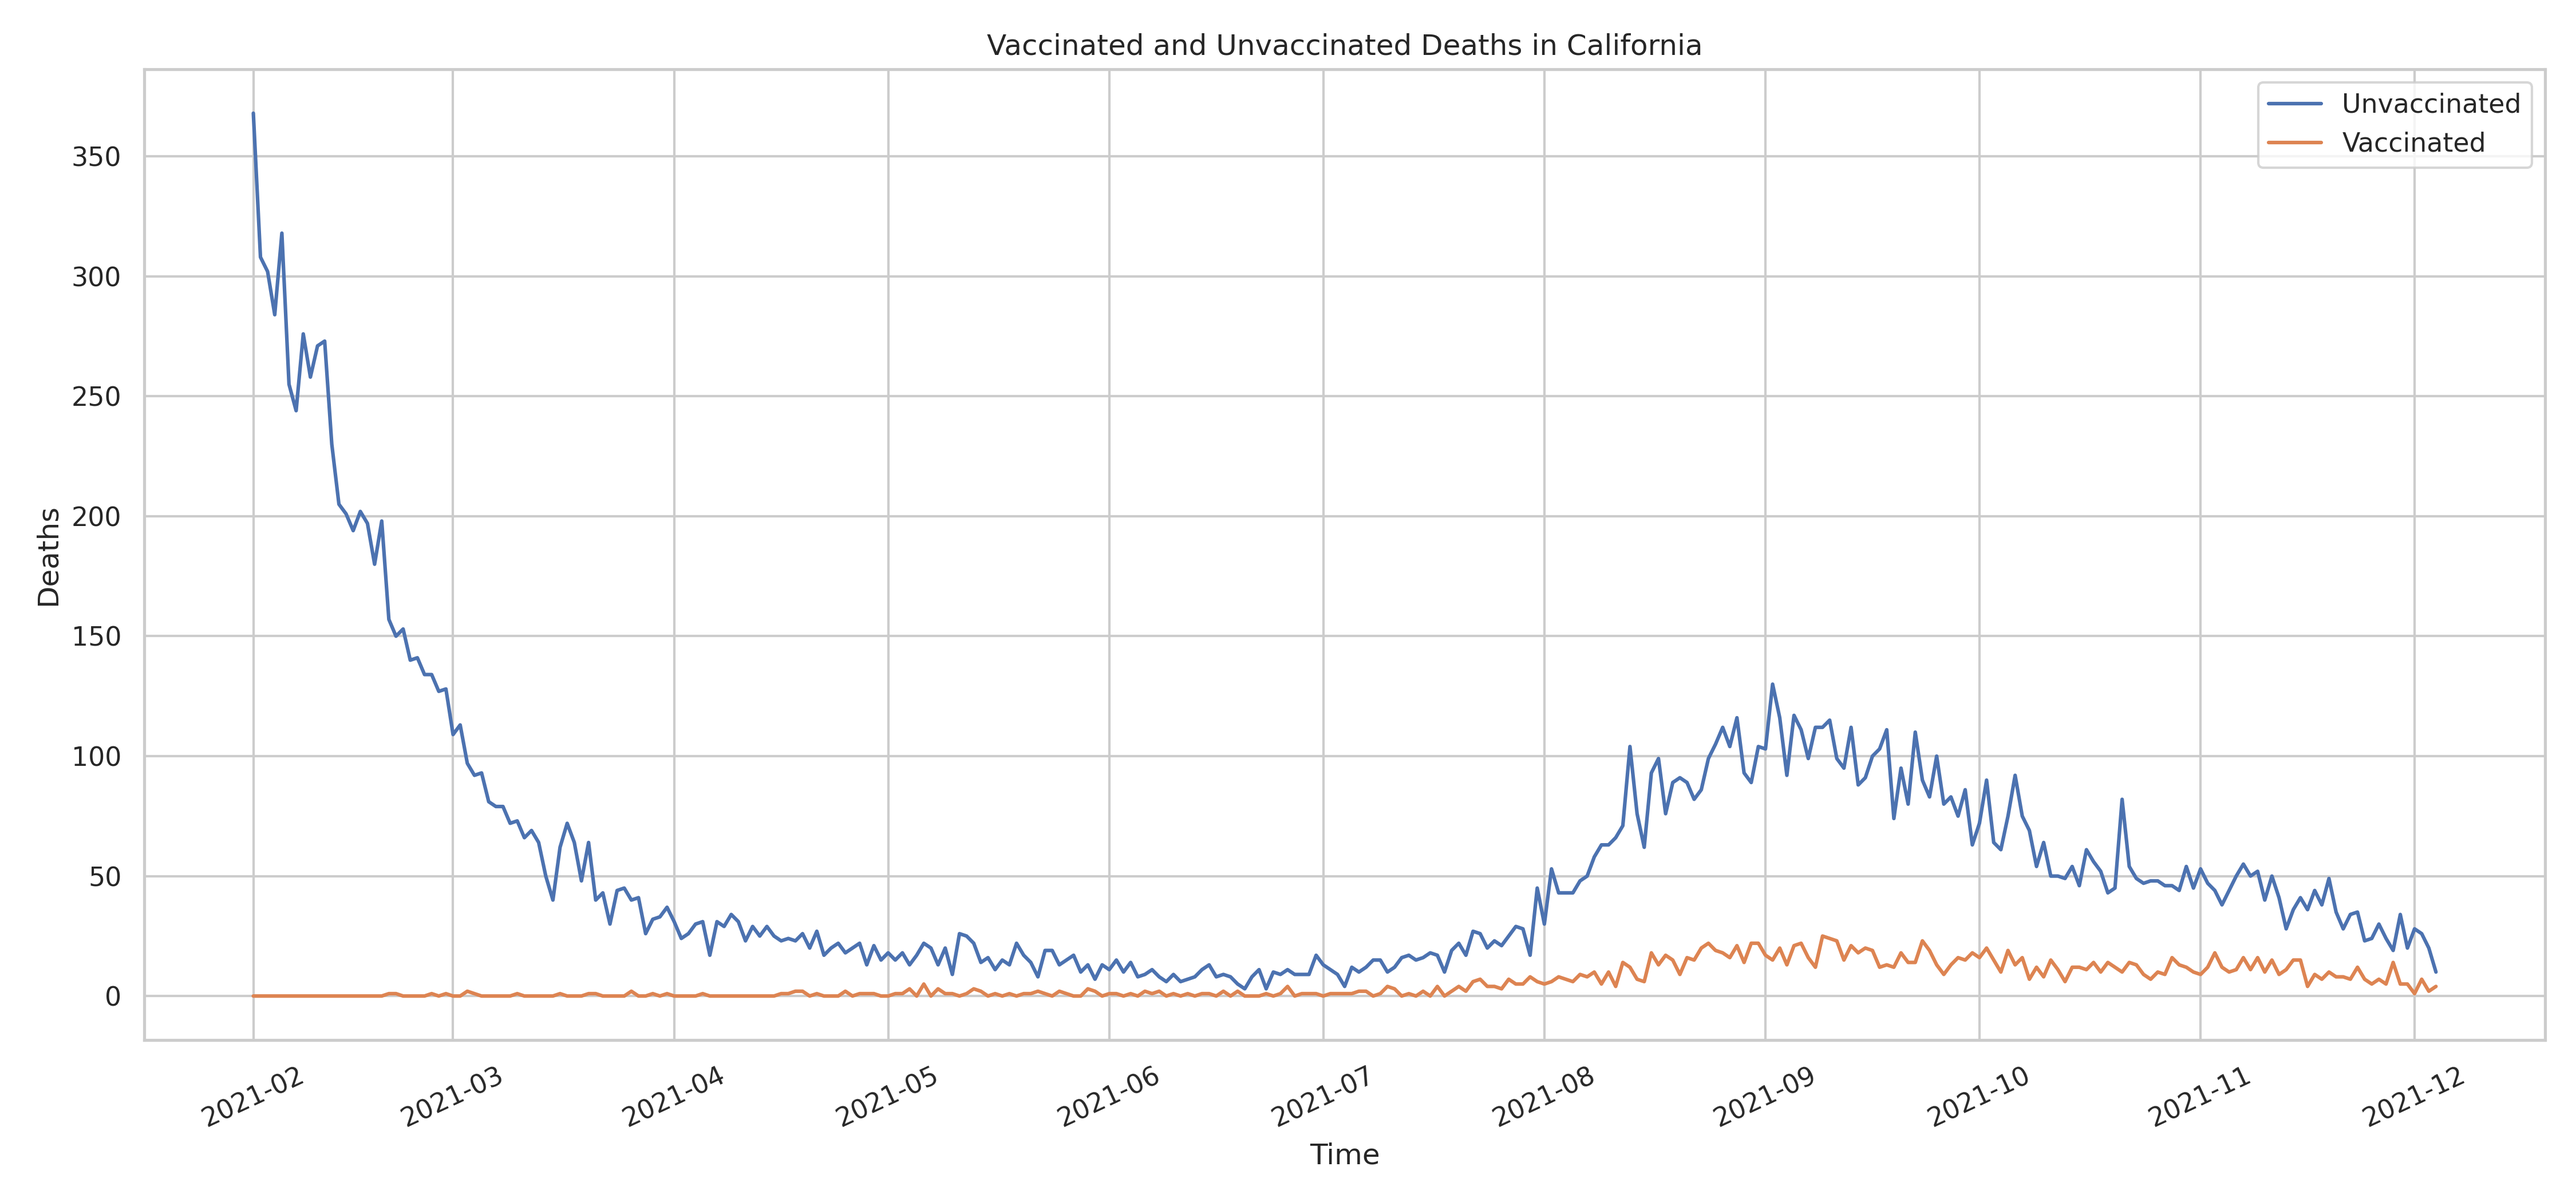
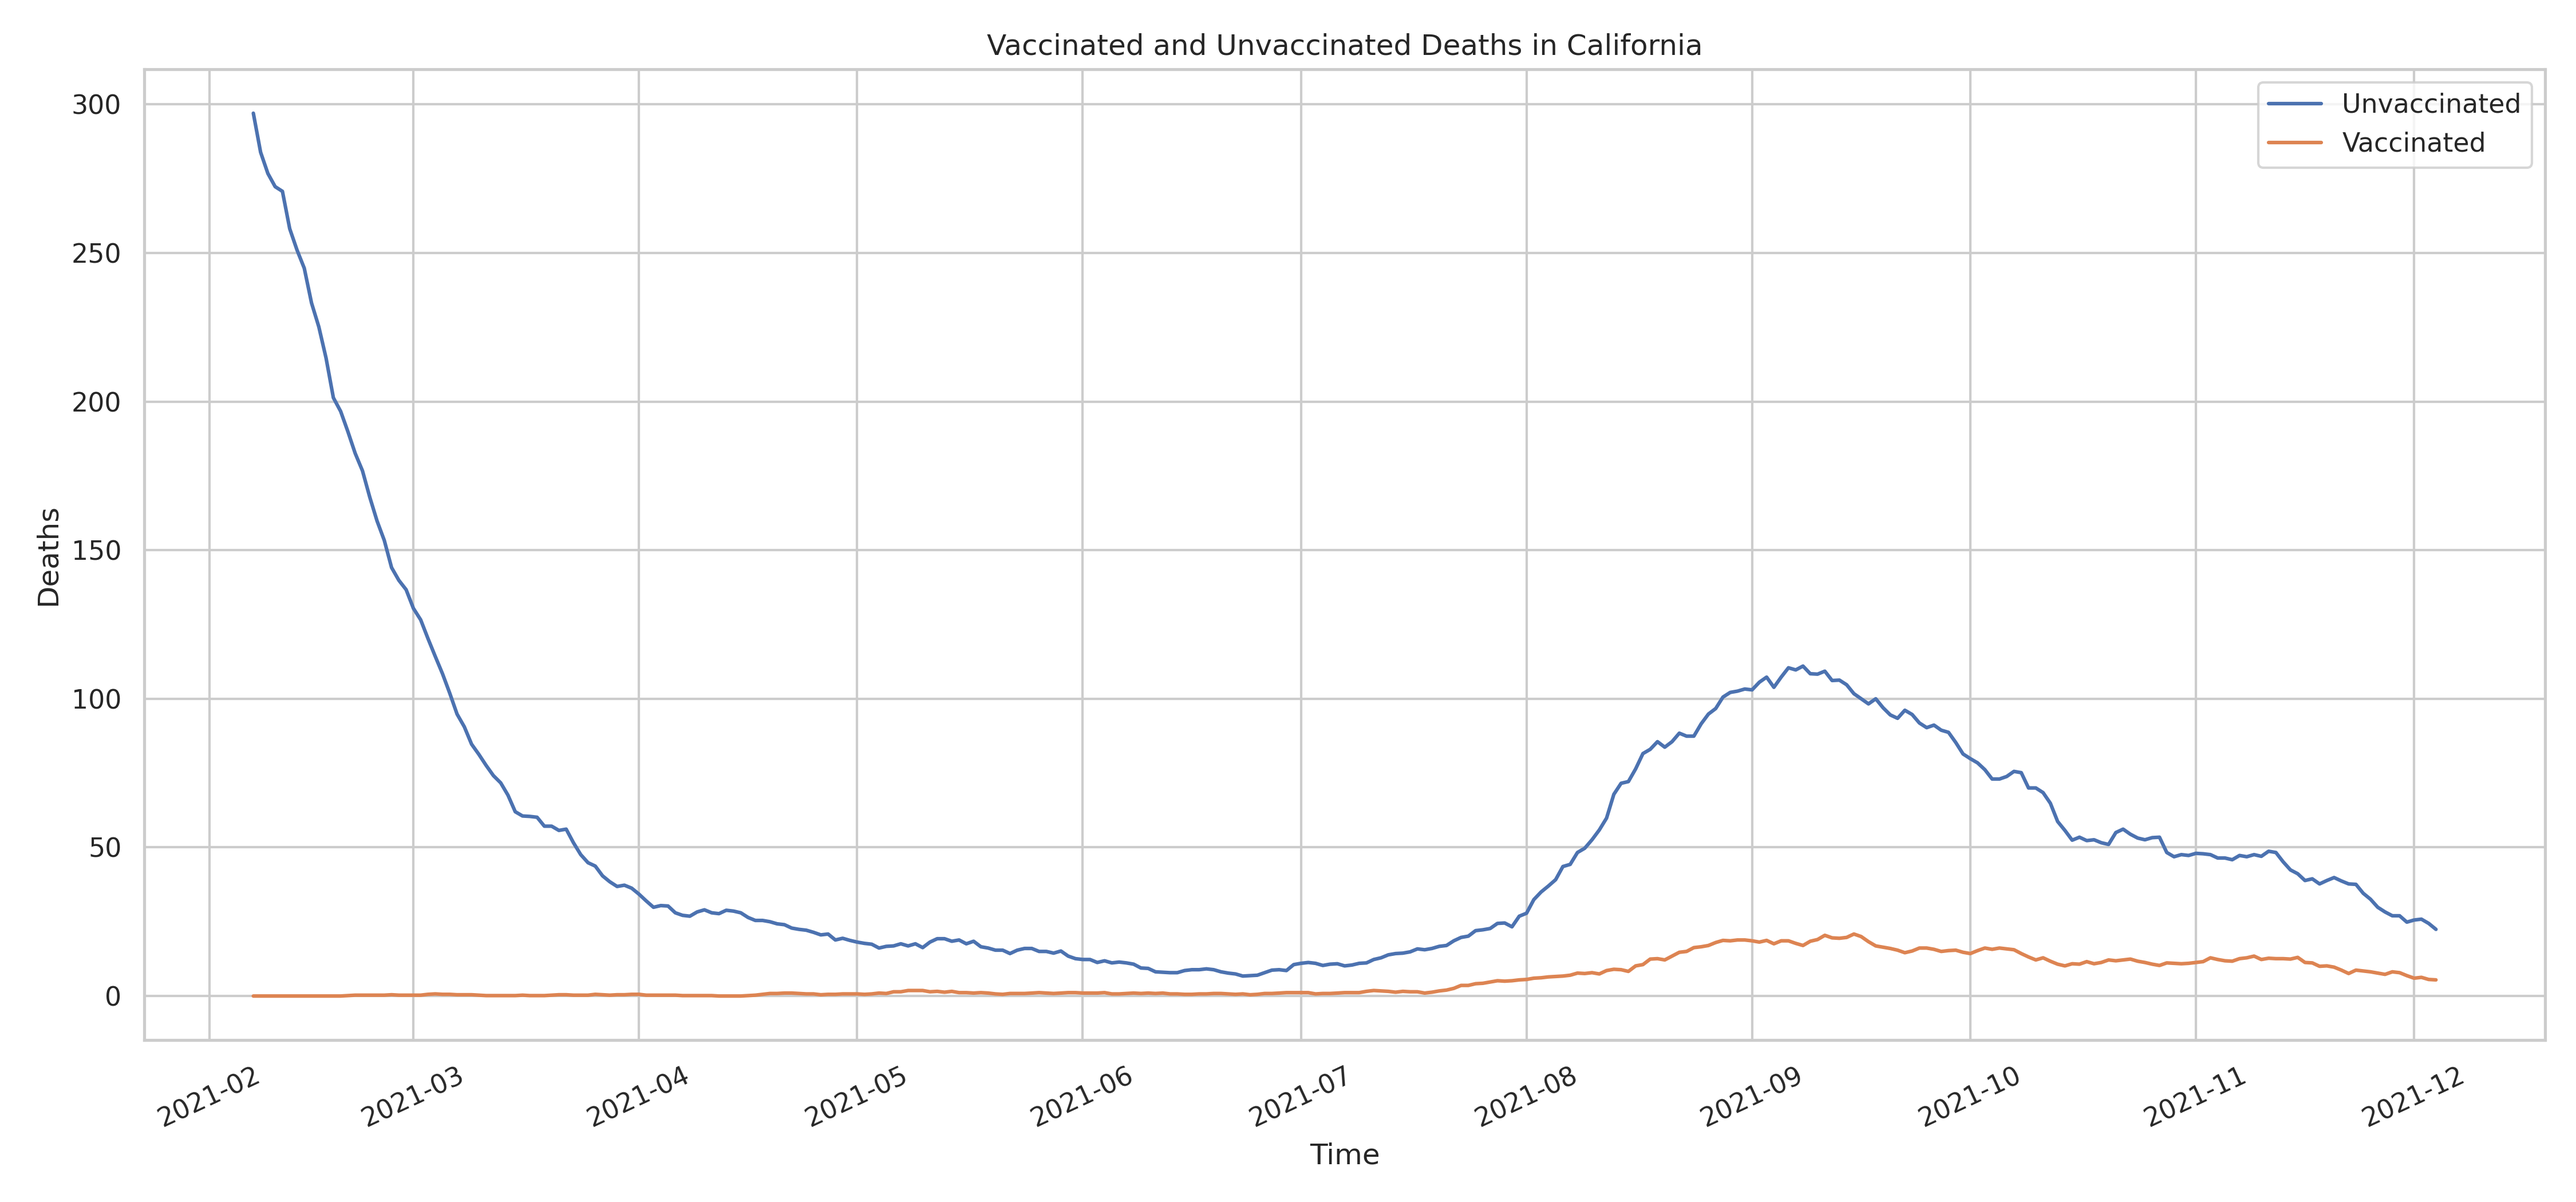
Add 7 day rolling mean smoothing to graph

diff --git a/.ipynb_checkpoints/README-checkpoint.md b/.ipynb_checkpoints/README-checkpoint.md
@@ -1,0 +1,15 @@
+# California COVID Breakthrough Information
+
+A recent article posed the question of why Florida wouldn't release information on trends for vaccinated versus unvaccinated cases and why Florida has gone from one of the most transparent states to one of the most opaque states in terms of tracking and releasing Covid information.
+https://www.tampabay.com/news/health/2021/12/22/why-wont-florida-cdc-release-states-breakthrough-covid-data/
+
+In this article, it is also mentioned that the state of Florida had issued a statement saying that one third of their cases were breakthrough cases. This is typically an attempt to downplay the effectiveness of the vaccine in terms of public health while continuing to withold information that would substantiate their claim. While Florida won't release their information we can take a look at how other states are faring to get a picture of what might be going on within Florida. 
+
+California is one state that is tracking vaccinated versus unvaccinated case information so we can take a look at the information from California and attempt to draw some sort of parrellel between the two. The information for California is available here ...
+https://data.chhs.ca.gov/dataset/covid-19-post-vaccination-infection-data
+
+Based on this information, we can see that California is close to being in the same situation as Florida where roughly one third of their covid cases are breakthrough cases but based on the data we can see that this is only because the total number of cases have dropped significantly over the past several months and while the unvaccinated cases have dropped significantly, the vaccinated cases have remained somewhat constant. The fact that the vaccinated cases have remained somewhat stagnant could be caused by a lack of booster shots. Unfortunately, booster shot information is not currently being tracked.
+
+![California Breakthrough Cases](CaliforniaBreakthroughCases.png)
+
+![California Breakthrough Deaths](CaliforniaBreakthroughDeaths.png)
